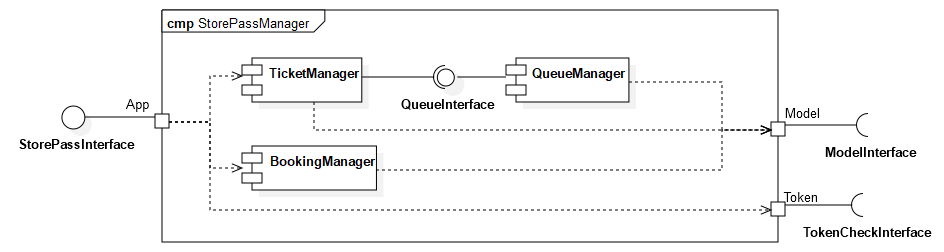
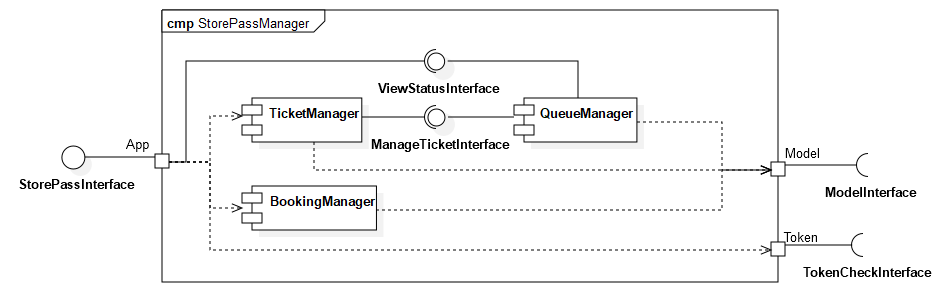
Add deployment diagram, fix component diagrams

diff --git a/DD/chapters/2_architectural_design.tex b/DD/chapters/2_architectural_design.tex
@@ -31,6 +31,8 @@ It is composed by a client part and a server part:
 \end{itemize}
 
 \section{Component view}
+
+\subsection{High Level}
 The following component diagram highlights all the components of the system and describes both his internal and external interactions.
 A general overview of the whole system is shown in \clupautoref{fig:cmp_high_level}. Further details will be provided in the subsequent diagrams.
 
@@ -62,7 +64,9 @@ The components in \clupautoref{fig:cmp_high_level} are:
 	\item \textbf{Maps Service}: provides the interface to the \textit{CLup Server} to deal with the maps data. It is required to retrieve the best possible path between two positions and to calculate the \textit{leave-at-time}.
 \end{itemize}
 
+\clearpage
 
+\subsection{CLup Server}
 The following component diagrams describe the internal structure of the application server, which contains the business logic of the system.
 
 \begin{figure}[H]
@@ -105,6 +109,10 @@ The components in \clupautoref{fig:cmp_clup_server} are:
 	\item \textbf{MapsManager}: deals with the maps data. It retrieves the best possible path between two positions and to calculate the \textit{leave-at-time}.
 \end{itemize}
 
+\clearpage
+
+\subsection{Store Pass Manager}
+
 \begin{figure}[H]
 	\centering
 	\includegraphics[origin=c,width=\textwidth]{cmp_store_pass}
@@ -118,8 +126,11 @@ The components in \clupautoref{fig:cmp_store_pass} are:
 	
 	\item \textbf{BookingManager}: handles the booking creation for a specific store. Provides methods to the Customer App to update the current status of the queue and through the \textbf{Model Interface} can access the maps data to provide the leave-at-time.
 	
-	\item \textbf{QueueManager}: deals with the queue management for each stores subscribed. It offers an interface to the \textit{Ticket Manager} which allows it to add and remove tickets from the queues.
+	\item \textbf{QueueManager}: deals with the queue management for each stores subscribed and calculates the estimated waiting time in queue. It offers an interface to the \textit{Ticket Manager} which allows it to add and remove tickets from the queues. Furthermore, the \textbf{ViewStatusInterface} provides the current status of the queue.
 \end{itemize}
+
+
+\subsection{Auth Manager}
 
 \begin{figure}[H]
 	\centering
@@ -144,6 +155,8 @@ The components in \clupautoref{fig:cmp_auth} are:
 \end{itemize}
 
 
+\subsection{Scan Manager}
+
 \begin{figure}[H]
 	\centering
 	\includegraphics[origin=c,width=\textwidth]{cmp_scan}
@@ -155,10 +168,29 @@ The components in \clupautoref{fig:cmp_scan} are:
 \begin{itemize}
 	\item \textbf{QRCheckManager}: it handles the scanning and validation process of QR codes. The scanned code validity will be checked versus the one stored in the Model via the ModelInterface.
 \end{itemize}
+\clearpage
 
 \section{Deployment view}
+The system presents a three tier architecture \clupautoref{fig:depl_diag}:
+\begin{itemize}
+	\item \textbf{Tier 1: presentation tier}. The Customer App is installed on compatible Android or iOS phones. Distribution of the appropriate executable will be handled by the corresponding app stores. For the Local Ticketing Kiosk, a custom non-public executable will be installed on an Android tablet.\newline
+	The Store App is installed on Android or iOS phones and will not be publicly available.\newline
+	Finally, the Web App will be accessible through web browser by connecting to a dedicated website.
+	
+	\item \textbf{Tier 2: logic tier}. The CLup Server App is installed on a dedicated server with a running instance of Apache TomEE 8.
+	
+	\item \textbf{Tier 3: data tier}. All data is stored in a persistent way into a MySQL database.
+\end{itemize}
 
+
+\begin{figure}[H]
+	\centering
+	\includegraphics[width=\linewidth]{depl_diag}
+	\caption{\textit{Deployment diagram} of the CLup system.}
+	\label{fig:depl_diag}
+\end{figure}
 \clearpage
+
 \section{Runtime view}
 This section describes the most important components interactions of the system.\newline
 For the sake of simplicity the sequence diagrams are based on the first level of components. 

diff --git a/DD/chapters/6_effort.tex b/DD/chapters/6_effort.tex
@@ -7,6 +7,7 @@
         \hline
         \textbf{Task} & \textbf{Hours} \\ \hline
         Initial briefing & 2 \\ \hline
+        Deployment View & 2 \\ \hline
     \end{tabular}
 \end{center}
 
